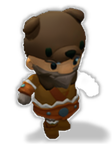
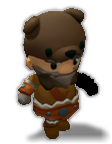
걷기 덧칠 시험: 윤곽을 원래 그림 알파로 (반투명 제거)
Claude-Session: https://claude.ai/code/session_011L6oZWyFyp94pHUqC8jaXx

diff --git a/tools/restyle_tribez.py b/tools/restyle_tribez.py
@@ -23,11 +23,8 @@ for f in sorted(glob.glob("tribez/restyle/in/*.png")):
     img = pipe(prompt=prompt, negative_prompt=neg, image=bg.convert("RGB"), strength=st,
                num_inference_steps=max(8, int(round(4 / st))), guidance_scale=2.0,
                generator=torch.Generator().manual_seed(7)).images[0]
-    cut = remove(img, session=sess)
-    a = big.getchannel("A")                      # 원래 윤곽을 살짝 넓혀 써서 실루엣 유지
-    from PIL import ImageFilter
-    cut.putalpha(Image.composite(cut.getchannel("A"), a.filter(ImageFilter.MaxFilter(9)), a.filter(ImageFilter.MaxFilter(9))))
-    small = cut.resize(src.size, Image.LANCZOS)
+    small = img.convert("RGBA").resize(src.size, Image.LANCZOS)
+    small.putalpha(src.getchannel("A"))          # 윤곽은 원래 그림 그대로(반투명 없음)
     small.save(f"{out}/{os.path.basename(f)}")
     frames.append((src, small))
     print(os.path.basename(f), f"{time.time()-t0:.0f}s", flush=True)
